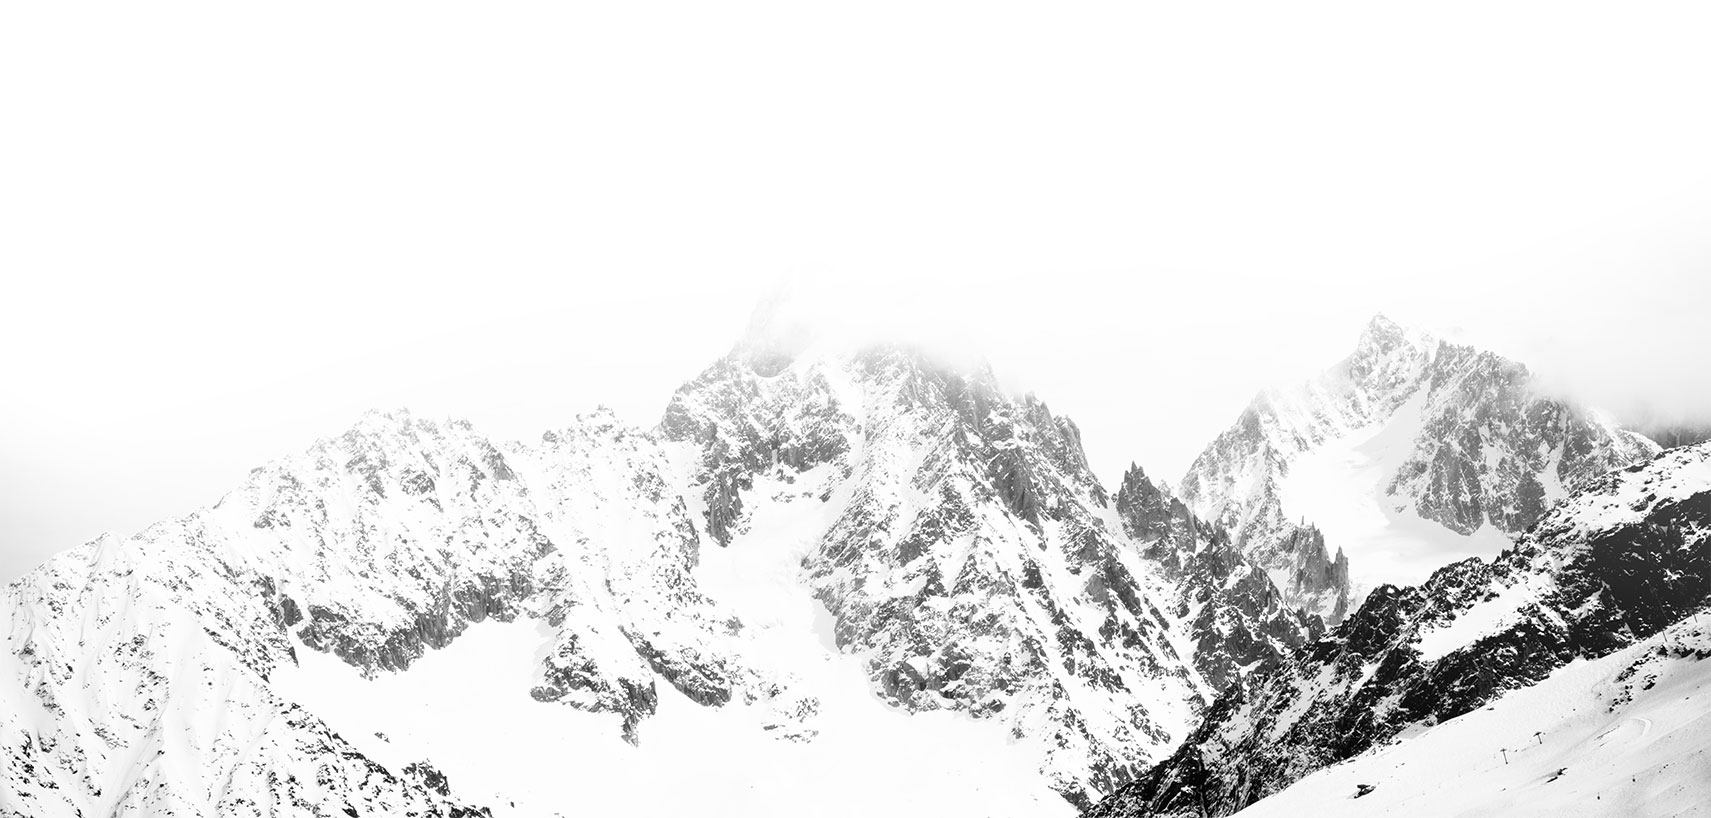
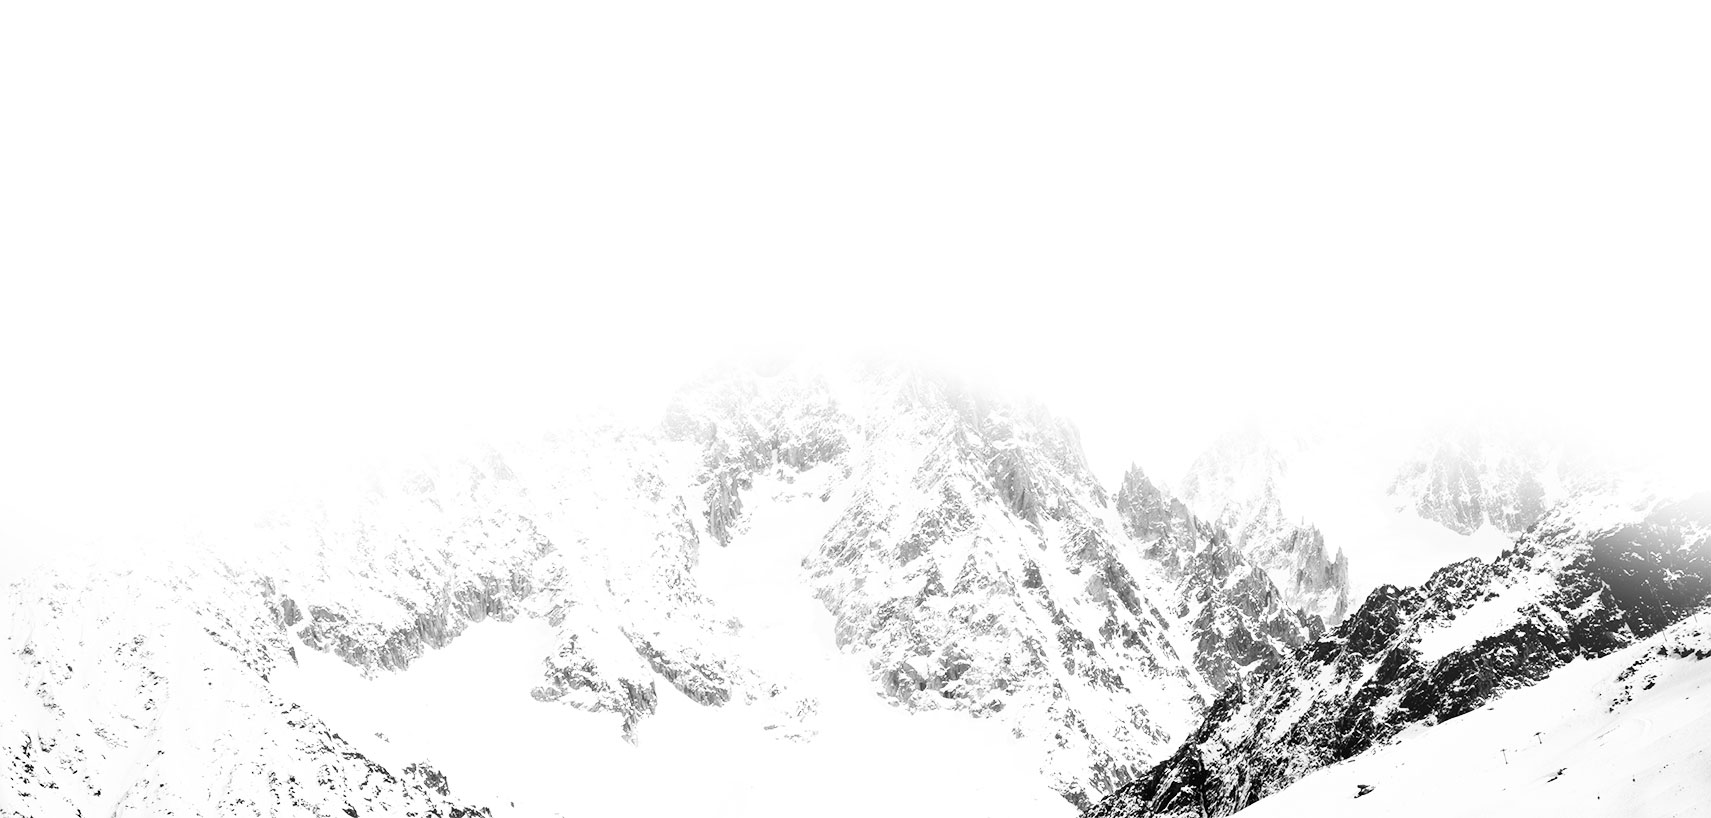
Play some more…

Changed region(s): [[0.0, 0.3973, 1.0, 1.0], [0.1239, 0.8557, 0.3098, 1.0], [0.4646, 0.8557, 0.4956, 0.8863]]

diff --git a/static/assets/stylesheets/application.scss b/static/assets/stylesheets/application.scss
@@ -8,7 +8,7 @@ $ds-font-family: 'Titillium Web', sans-serif;
 html {
   background: image-url('snow-footer.jpg') bottom center no-repeat;
   color: #222;
-  font: 400 100%/1.6 $ds-font-family;
+  font: 300 100%/1.6 $ds-font-family;
   padding-bottom: 600px;
 }
 
@@ -29,6 +29,32 @@ img {
   text-align: center;
 }
 
+@mixin centerer {
+  position: absolute;
+  top: 50%;
+  left: 50%;
+  transform: translate(-50%, -50%);
+}
+
+.intro {
+  //background: image-url('snow-footer.jpg') bottom center no-repeat;
+  height: 100vh;
+  position: relative;
+}
+
+.intro__content {
+  @include centerer;
+}
+
+.nav {
+  display: none;
+}
+
+.newsletter {
+  background: #111;
+  height: 220px;
+}
+
 // -----------------------------------------------------------------------------
 // Product listing
 // -----------------------------------------------------------------------------
@@ -39,6 +65,7 @@ img {
 
 .products__product {
   padding: 40px;
+  margin-bottom: 160px;
   text-align: center;
 
   a {
@@ -46,11 +73,22 @@ img {
     display: block;
     text-decoration: none;
   }
+
+  &:first-child {
+    background: image-url('boarders-1.jpg') bottom center no-repeat;
+    padding-bottom: 400px;
+    margin-bottom: 100px;
+    &:after {
+      /*
+      display: block;
+      height: 400px;*/
+    }
+  }
 }
 
 .products__product__image {
   @include transition-property(width);
-  @include transition-duration(.8s);
+  @include transition-duration(.3s);
   @include transition-timing-function(ease-in);
   width: 90%;
   margin: 0 auto;
@@ -66,9 +104,9 @@ img {
 
 .products__product__title {
   @include transition-property(all);
-  @include transition-duration(.8s);
+  @include transition-duration(.3s);
   @include transition-timing-function(ease-in);
-  background-color: rgba(white, .5);
+  background: image-url('fog.png') top center no-repeat;
   font-size: 46px;
   font-weight: 900;
   line-height: 1.2;
@@ -78,7 +116,7 @@ img {
   z-index: 10;
 
   .products__product:hover & {
-    margin-top: -50px;
+    margin-top: -100px;
   }
 }
 
